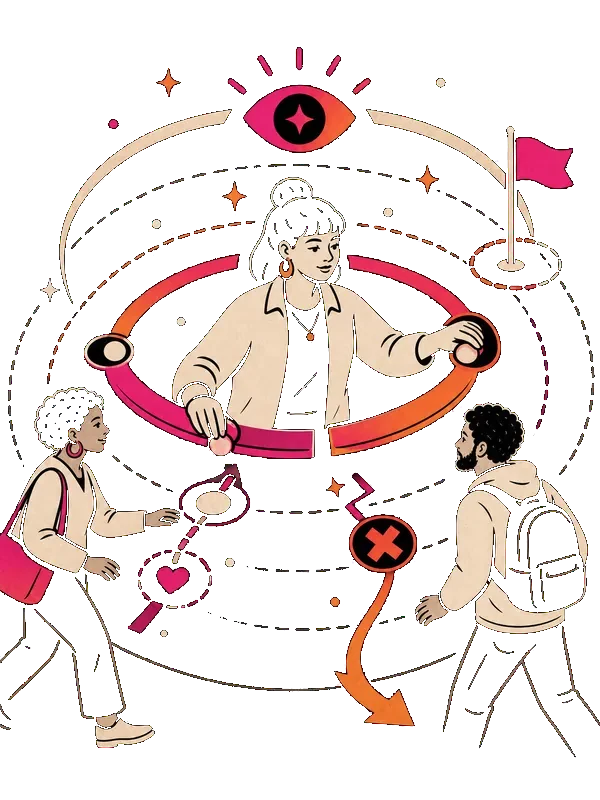
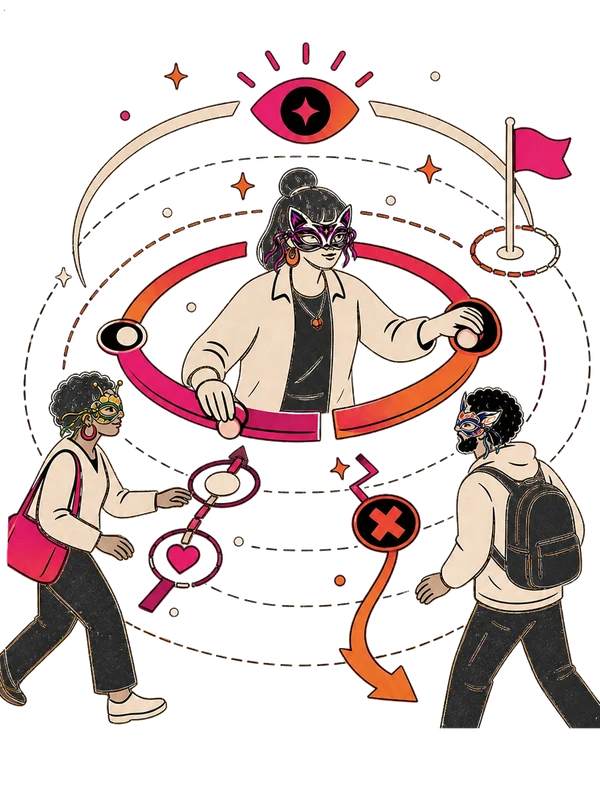
Install Codex's masquerade asset set; host identity on Look cards
19 assets in: 9 app illustrations, 5 Tribe portraits, 5 crests, all verified
programmatically as RGBA with alpha genuinely spanning 0..255 rather than an
opaque image in an RGBA container. onboarding-01 now gives each of the five
doorways its own Tribe's masks — the picture explains the Tribe system before
any copy is read, which was the whole point of starting there.

I was wrong about the Tribe portraits. My earlier note insisted they stay
opaque at 900x1200 because they are backgrounds under a gradient scrim; Codex
shipped them transparent at 600x800. Compositing one over the real card colour
before accepting settled it: Codex keyed only the border-connected background
so interior black survived, and on this app's uniformly near-black surfaces
the result is indistinguishable. The reasoning was not wrong, just narrower
than stated — opaque only matters when something lighter sits behind.

What transparency did require is a surface for the scrims to work against, so
bg-card is now on the Tribe banner and the Discover flip cards. Without it
those gradients blend into whatever the page happens to be. Revised rule in
DEVLOG: art that floats must be transparent, art used as a background needs an
opaque surface behind it — the container's job, not the asset's.

Look cards now carry the host's face, name and Tribe on one line. The Tribe
badge used to sit in a separate block further down, where it read as a
[…]

diff --git a/src/components/mutuals/VenturesScreen.tsx b/src/components/mutuals/VenturesScreen.tsx
@@ -1294,7 +1294,7 @@ function HostedVentureCard({
       path={venture.image_url}
       header={<VentureCardHeader venture={venture} hideHost />}
     >
-      <VentureMeta venture={venture} />
+      <VentureMeta venture={venture} hideHost />
 
       <div className={cn("mt-4 grid gap-2", isClosed ? "grid-cols-1" : "grid-cols-2")}>
         {!isClosed && (
@@ -1709,6 +1709,7 @@ function VentureCardHeader({
   hideHost?: boolean;
 }) {
   const host = venture.host;
+  const hostTribe = TRIBES.find((t) => host?.tribe_ids?.includes(t.id));
   return (
     <div className="flex items-start justify-between gap-3">
       {/* The host's face leads, not the Venture's photo.
@@ -1724,10 +1725,18 @@ function VentureCardHeader({
           <StatusPill status={venture.status} />
         </div>
         {!hideHost && (
-          <p className="mt-0.5 truncate text-xs text-muted-foreground">
-            <span className="font-semibold text-foreground">{displayName(host)}</span>
-            {host?.city ? ` · ${host.city}` : ""}
-          </p>
+          // Face, name and Tribe in one line, because they are one thing: who
+          // is running this. The Tribe used to sit in a separate block further
+          // down the card, where it read as a property of the plan rather than
+          // of the person — and with one Tribe per member it is now part of how
+          // someone introduces themselves.
+          <div className="mt-1 flex min-w-0 flex-wrap items-center gap-x-2 gap-y-1">
+            <span className="truncate text-xs font-semibold">{displayName(host)}</span>
+            {hostTribe && <TribeBadge tribe={hostTribe} />}
+            {host?.city && (
+              <span className="truncate text-[11px] text-muted-foreground">{host.city}</span>
+            )}
+          </div>
         )}
       </div>
       <div className="flex items-start gap-1">
@@ -1749,7 +1758,7 @@ function VentureCardHeader({
   );
 }
 
-function VentureMeta({ venture }: { venture: VentureParty }) {
+function VentureMeta({ venture, hideHost = false }: { venture: VentureParty; hideHost?: boolean }) {
   const hostTribes = venture.host?.tribe_ids?.filter(Boolean) as TribeId[] | undefined;
   return (
     <div className="mt-3 space-y-2">
@@ -1766,7 +1775,9 @@ function VentureMeta({ venture }: { venture: VentureParty }) {
         </span>
         <span>{venture.scope === "mine" ? "Host tribes only" : "All tribes"}</span>
       </div>
-      {hostTribes?.length ? (
+      {/* Only when the header did not already carry it — on a hosted card the
+          header hides the host, so the Tribe belongs here instead. */}
+      {hideHost && hostTribes?.length ? (
         <div className="flex flex-wrap gap-1.5">
           {hostTribes.map((tribeId) => {
             const tribe = TRIBES.find((item) => item.id === tribeId);

diff --git a/src/components/mutuals/DiscoverScreen.tsx b/src/components/mutuals/DiscoverScreen.tsx
@@ -223,7 +223,7 @@ export function DiscoverScreen({ onOpenMessages, unread }: { onOpenMessages: () 
                 <button
                   key={t.id}
                   onClick={() => setPreviewTribe(t)}
-                  className="group relative h-40 w-44 shrink-0 overflow-hidden rounded-2xl border border-border text-left transition-transform hover:-translate-y-0.5 focus-visible:outline-none focus-visible:ring-2 focus-visible:ring-primary"
+                  className="group relative h-40 w-44 shrink-0 overflow-hidden rounded-2xl border border-border bg-card text-left transition-transform hover:-translate-y-0.5 focus-visible:outline-none focus-visible:ring-2 focus-visible:ring-primary"
                 >
                   <img src={t.art} alt="" className="absolute inset-0 h-full w-full object-cover transition-transform duration-300 group-hover:scale-[1.03] motion-reduce:transition-none" />
                   <span className="absolute inset-0 bg-gradient-to-t from-black via-black/35 to-black/5" />

diff --git a/src/components/mutuals/TribeScreen.tsx b/src/components/mutuals/TribeScreen.tsx
@@ -238,7 +238,10 @@ function TribeBanner({
     // gradient made every Tribe the same card in a different hue; the
     // illustration is the thing that actually distinguishes Night Owl from
     // Iron Wolf, and it already exists.
-    <section className="relative mt-5 min-h-44 overflow-hidden rounded-2xl border border-border">
+    // bg-card matters now that the artwork is transparent: the scrim
+    // gradients below were written assuming something opaque behind them, and
+    // without a surface they would blend into whatever the page happens to be.
+    <section className="relative mt-5 min-h-44 overflow-hidden rounded-2xl border border-border bg-card">
       <img
         src={tribe.art}
         alt=""

diff --git a/DEVLOG.md b/DEVLOG.md
@@ -63,7 +63,7 @@ and logged below.
 | **Global vs Tribe timeline** | Global is look-but-don't-touch: read, like, comment, repost — but no direct Follow or DM across Tribes. Crossing Tribes goes through Explore → Hello → accept. Enforced in `can_direct_message()`. |
 | **Swipe lives on Ventures, not people** | Judging a plan, not a face. Explore uses focused one-at-a-time cards with Next/Back where Next means *later*, not *never*. Reject-forever on people needs a pool of thousands and imports dating semantics; user agreed. |
 | **Illustration masks** | Tribe animals appear as masks **worn up / half-masks with faces visible** — never full face-covering. A masquerade signals anonymity, and this product is built on accountable identity (real handles, adult verification, Hello gating). Full masks would also pull toward the romantic register the Explore deck was designed away from. |
-| **Which art is transparent** | `app-illustrations/*` float on the app surface and MUST be transparent. `tribes/*.webp` are full-bleed backgrounds under a gradient scrim and MUST stay opaque at 900x1200 — the black is the artwork and the scrim needs something to blend into. Art that floats needs transparency; art that sits behind content does not. |
+| **Which art is transparent** | Everything is transparent RGBA now (app illustrations 600x800, Tribe portraits 600x800, crests 256x256) and that is correct — an earlier note here said the Tribe portraits had to stay opaque; testing against the real card colour disproved it. What background-use *does* require is an opaque surface behind the art, which is the container's job: `bg-card` on the Tribe banner and the Discover flip cards. |
 | **Illustration assets** | `src/assets/app-illustrations/*` are **transparent WebP**. `FeatureIllustration` draws no card, border or crop. Any regeneration must preserve transparency, or ship on flat pure #000000 with no vignette/gradient/frame so it can be re-keyed. Black-backed art puts the rectangle back in every empty state. |
 | **Explore ranking** | `list_explore_matches` scores on stated signals. Location is a **bonus, never a gate** — that regression is what made Explore newest-first for most users. Sharing a Tribe is worth **0** on purpose: tribemates are already reachable, and Explore is the cross-Tribe bridge. Distance bands are disclosed only inside the mutual radius. |
 
